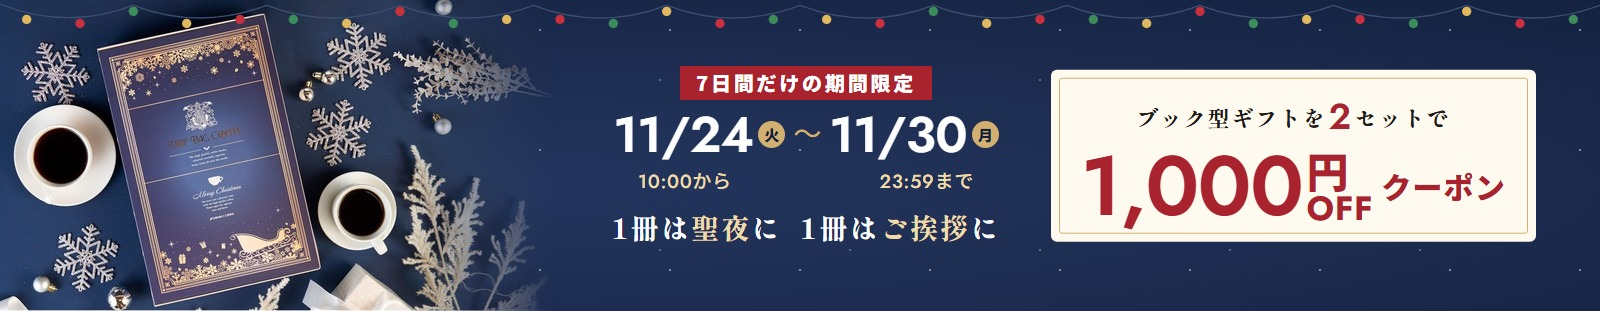
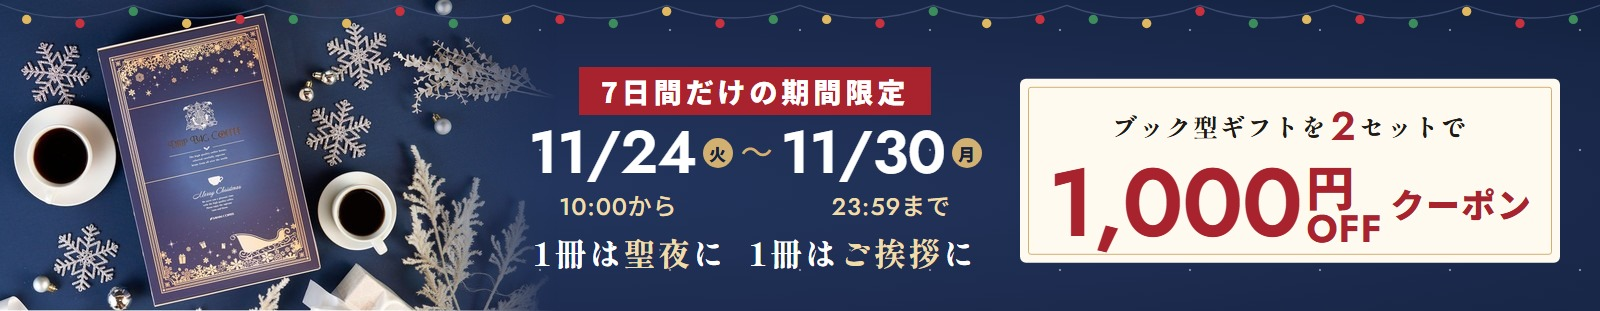
fix: SPで6,000円の改行を防止、澤井珈琲ロゴでトップへのリンクを追加、バナーの文字を大きく

Changed region(s): [[0.3125, 0.2026, 1.0, 0.8682]]

diff --git a/banner/banner.html b/banner/banner.html
@@ -48,61 +48,61 @@ i{font-style:normal}
 .s900{width:1600px;height:900px}
 .s900 .photo{left:0;top:0;width:1060px;height:900px;-webkit-mask:linear-gradient(90deg,#000 70%,transparent);mask:linear-gradient(90deg,#000 70%,transparent)}
 .s900 .lights{height:60px}
-.s900 .col{position:absolute;left:900px;right:64px;top:0;bottom:0;z-index:2;display:flex;flex-direction:column;align-items:center;justify-content:center;text-align:center}
-.s900 .lbl{font-size:28px;padding:6px 26px}
-.s900 .date{margin-top:22px;gap:10px}
-.s900 .date b{font-size:76px}
-.s900 .date .w{width:40px;height:40px;font-size:21px}
-.s900 .date .to{font-size:40px;margin:0 4px}
-.s900 .times{display:flex;justify-content:space-between;width:100%;max-width:560px;margin-top:12px;padding:0 22px}
-.s900 .times span{font-family:var(--num);font-weight:500;font-size:26px;color:var(--gold-l);letter-spacing:.06em}
-.s900 .ttl{margin-top:38px;font-size:56px}
-.s900 .tk{margin-top:40px;padding:26px 40px 24px}
+.s900 .col{position:absolute;left:880px;right:48px;top:56px;bottom:0;z-index:2;display:flex;flex-direction:column;align-items:center;justify-content:center;text-align:center}
+.s900 .lbl{font-size:40px;padding:6px 30px}
+.s900 .date{margin-top:20px;gap:10px}
+.s900 .date b{font-size:88px}
+.s900 .date .w{width:44px;height:44px;font-size:23px}
+.s900 .date .to{font-size:44px;margin:0 2px}
+.s900 .times{display:flex;justify-content:space-between;width:100%;max-width:660px;margin-top:10px;padding:0 30px}
+.s900 .times span{font-family:var(--num);font-weight:500;font-size:32px;color:var(--gold-l);letter-spacing:.06em}
+.s900 .ttl{margin-top:30px;font-size:66px}
+.s900 .tk{margin-top:32px;padding:24px 40px 22px}
 .s900 .tk::before{inset:11px}
-.s900 .tk__pre{font-size:28px}.s900 .tk__pre b{font-size:46px;margin:0 .06em;vertical-align:-.06em}
+.s900 .tk__pre{font-size:32px}.s900 .tk__pre b{font-size:50px;margin:0 .06em;vertical-align:-.06em}
 .s900 .tk__row{margin-top:8px}
-.s900 .off{font-size:104px}
-.s900 .tk__c{font-size:40px;margin-left:10px}
+.s900 .off{font-size:116px}
+.s900 .tk__c{font-size:44px;margin-left:10px}
 
 /* ===== 1600x311 ===== */
 .s311{width:1600px;height:311px}
 .s311 .photo{left:0;top:0;width:556px;height:311px;-webkit-mask:linear-gradient(90deg,#000 72%,transparent);mask:linear-gradient(90deg,#000 72%,transparent)}
 .s311 .lights{height:40px}
-.s311 .col{position:absolute;left:556px;width:500px;top:0;bottom:0;z-index:2;display:flex;flex-direction:column;align-items:center;justify-content:center;text-align:center}
-.s311 .lbl{font-size:20px;padding:2px 16px}
-.s311 .date{margin-top:10px;gap:5px}
-.s311 .date b{font-size:50px}
-.s311 .date .w{width:27px;height:27px;font-size:15px}
-.s311 .date .to{font-size:28px;margin:0 3px}
-.s311 .times{display:flex;justify-content:space-between;width:100%;max-width:360px;margin-top:6px;padding:0 12px}
-.s311 .times span{font-family:var(--num);font-weight:500;font-size:19px;color:var(--gold-l);letter-spacing:.04em}
-.s311 .ttl{margin-top:14px;font-size:28px}
-.s311 .tk{position:absolute;z-index:2;right:64px;top:50%;transform:translateY(-50%);padding:20px 30px 18px}
+.s311 .col{position:absolute;left:500px;width:510px;top:30px;bottom:0;z-index:2;display:flex;flex-direction:column;align-items:center;justify-content:center;text-align:center}
+.s311 .lbl{font-size:28px;padding:3px 22px}
+.s311 .date{margin-top:8px;gap:6px}
+.s311 .date b{font-size:60px}
+.s311 .date .w{width:30px;height:30px;font-size:17px}
+.s311 .date .to{font-size:32px;margin:0 2px}
+.s311 .times{display:flex;justify-content:space-between;width:100%;max-width:420px;margin-top:4px;padding:0 14px}
+.s311 .times span{font-family:var(--num);font-weight:500;font-size:24px;color:var(--gold-l);letter-spacing:.04em}
+.s311 .ttl{margin-top:8px;font-size:32px}
+.s311 .tk{position:absolute;z-index:2;right:40px;top:calc(50% + 15px);transform:translateY(-50%);padding:18px 28px 16px}
 .s311 .tk::before{inset:8px}
-.s311 .tk__pre{font-size:22px}.s311 .tk__pre b{font-size:36px;margin:0 .06em;vertical-align:-.06em}
+.s311 .tk__pre{font-size:25px}.s311 .tk__pre b{font-size:40px;margin:0 .06em;vertical-align:-.06em}
 .s311 .tk__row{margin-top:6px}
-.s311 .off{font-size:84px}
-.s311 .tk__c{font-size:30px;margin-left:8px}
+.s311 .off{font-size:96px}
+.s311 .tk__c{font-size:34px;margin-left:8px}
 
 /* ===== 1200x1200 ===== */
 .s1200{width:1200px;height:1200px}
-.s1200 .photo{left:0;top:460px;width:1200px;height:672px;-webkit-mask:linear-gradient(transparent,#000 18%,#000 75%,transparent);mask:linear-gradient(transparent,#000 18%,#000 75%,transparent)}
+.s1200 .photo{left:0;top:540px;width:1200px;height:672px;-webkit-mask:linear-gradient(transparent,#000 16%,#000 75%,transparent);mask:linear-gradient(transparent,#000 16%,#000 75%,transparent)}
 .s1200 .lights{height:56px}
-.s1200 .col{position:absolute;left:0;right:0;top:92px;z-index:2;display:flex;flex-direction:column;align-items:center;text-align:center}
-.s1200 .lbl{font-size:30px;padding:6px 28px}
-.s1200 .date{margin-top:22px;gap:10px}
-.s1200 .date b{font-size:92px}
-.s1200 .date .w{width:44px;height:44px;font-size:23px}
-.s1200 .date .to{font-size:50px;margin:0 8px}
-.s1200 .times{display:flex;justify-content:space-between;width:680px;margin-top:12px;padding:0 24px}
-.s1200 .times span{font-family:var(--num);font-weight:500;font-size:30px;color:var(--gold-l);letter-spacing:.06em}
-.s1200 .ttl{margin-top:30px;font-size:62px}
-.s1200 .tk{position:absolute;z-index:2;left:50%;bottom:60px;transform:translateX(-50%);padding:26px 52px 24px}
+.s1200 .col{position:absolute;left:0;right:0;top:78px;z-index:2;display:flex;flex-direction:column;align-items:center;text-align:center}
+.s1200 .lbl{font-size:46px;padding:6px 34px}
+.s1200 .date{margin-top:20px;gap:10px}
+.s1200 .date b{font-size:116px}
+.s1200 .date .w{width:54px;height:54px;font-size:28px}
+.s1200 .date .to{font-size:58px;margin:0 6px}
+.s1200 .times{display:flex;justify-content:space-between;width:860px;margin-top:10px;padding:0 40px}
+.s1200 .times span{font-family:var(--num);font-weight:500;font-size:38px;color:var(--gold-l);letter-spacing:.06em}
+.s1200 .ttl{margin-top:26px;font-size:76px}
+.s1200 .tk{position:absolute;z-index:2;left:50%;bottom:44px;transform:translateX(-50%);padding:26px 56px 24px}
 .s1200 .tk::before{inset:11px}
-.s1200 .tk__pre{font-size:30px}.s1200 .tk__pre b{font-size:50px;margin:0 .06em;vertical-align:-.06em}
+.s1200 .tk__pre{font-size:38px}.s1200 .tk__pre b{font-size:60px;margin:0 .06em;vertical-align:-.06em}
 .s1200 .tk__row{margin-top:8px}
-.s1200 .off{font-size:118px}
-.s1200 .tk__c{font-size:44px;margin-left:12px}
+.s1200 .off{font-size:150px}
+.s1200 .tk__c{font-size:56px;margin-left:14px}
 </style>
 </head>
 <body>

diff --git a/index.html b/index.html
@@ -54,6 +54,12 @@ i{font-style:normal}
 .sec--navy .lead{color:#e9e3d6}
 .orn{display:block;width:120px;height:14px;margin:16px auto 0}
 
+/* ---- ロゴ(トップへ) ---- */
+.site{background:var(--paper);text-align:center;border-bottom:2px solid var(--gold)}
+.site a{display:inline-block;padding:16px 20px;text-decoration:none}
+.site img{width:220px;height:auto}
+.site--foot{padding:6px 0 96px;border:0;border-top:2px solid var(--gold)}
+.site--foot span{display:block;margin-top:8px;font-weight:700;font-size:15px;color:var(--ink2);letter-spacing:.08em}
 /* ---- FV ---- */
 .fv{position:relative;background:linear-gradient(#0b1838,#13244d 60%,#0d1b3d);color:#fff;text-align:center;overflow:hidden;padding:0 0 44px}
 .lights{display:block;width:100%;height:56px}
@@ -195,10 +201,10 @@ i{font-style:normal}
 .notes li{padding-left:1em;text-indent:-1em}
 .notes li::before{content:"※"}
 
-.end{position:relative;padding:64px 28px 120px;background:linear-gradient(#13244d,#0b1633);color:#fff;text-align:center}
+.end{position:relative;padding:64px 28px 64px;background:linear-gradient(#13244d,#0b1633);color:#fff;text-align:center}
 .end .h2{color:#fff}
 .end__img{width:calc(100% + 56px);max-width:none;margin:24px -28px 8px;-webkit-mask:linear-gradient(transparent,#000 12%,#000 88%,transparent);mask:linear-gradient(transparent,#000 12%,#000 88%,transparent)}
-@media (max-width:600px){.end__img{width:calc(100% + 40px);margin:20px -20px 8px}}
+@media (max-width:600px){.site img{width:190px}.end__img{width:calc(100% + 40px);margin:20px -20px 8px}}
 
 /* ---- レール(PC) ---- */
 .rail{position:fixed;top:0;bottom:0;width:var(--rail);z-index:3;color:#fff;display:none;flex-direction:column;justify-content:center;padding:28px 26px}
@@ -237,7 +243,7 @@ i{font-style:normal}
 @media (min-width:1180px){
   .rail{display:flex}
   .menubtn,.drawer,.bar{display:none}
-  .end{padding-bottom:72px}
+  .site--foot{padding-bottom:16px}
 }
 @media (max-width:600px){
   .sec{padding:52px 20px}
@@ -267,6 +273,11 @@ i{font-style:normal}
   .pair__cap{font-size:19px}
   .open__img{margin:24px -20px 0}
   .blend__name{font-size:28px}
+}
+@media (max-width:390px){
+  .ticket .off{font-size:80px}
+  .fv__cpn .off{font-size:76px}
+  .btn{font-size:19px;letter-spacing:.04em}
 }
 @media (prefers-reduced-motion:reduce){
   *{animation:none!important;transition:none!important}
@@ -307,6 +318,7 @@ i{font-style:normal}
 </nav>
 
 <main class="main">
+  <div class="site"><a href="https://www.rakuten.co.jp/sawaicoffee-tea/" target="_top"><img src="img/logo.png" width="548" height="64" alt="澤井珈琲 トップページへ"></a></div>
 
   <!-- FV -->
   <header class="fv" id="top">
@@ -349,7 +361,7 @@ i{font-style:normal}
       <p class="ticket__cpn">クーポン</p>
       <div class="calc">
         <p class="calc__row">3,500円 × 2セット ＝ <s>7,000</s>円</p>
-        <p class="calc__after">クーポン利用で <b>6,000</b><i>円</i></p>
+        <p class="calc__after">クーポン利用で <span class="nw"><b>6,000</b><i>円</i></span></p>
         <p class="calc__each">1セットあたり <b>3,000</b>円</p>
       </div>
     </div>
@@ -584,6 +596,8 @@ i{font-style:normal}
     <a class="btn btn--gold" data-coupon href="#">クーポンを獲得する</a>
     <a class="btn btn--line" data-item href="#">商品ページで2セット選ぶ</a>
   </footer>
+  <div class="site site--foot"><a href="https://www.rakuten.co.jp/sawaicoffee-tea/" target="_top"><img src="img/logo.png" width="548" height="64" alt="澤井珈琲 トップページへ" loading="lazy"><span>澤井珈琲のトップページへ</span></a></div>
+
 </main>
 
 <div class="bar" data-bar>
